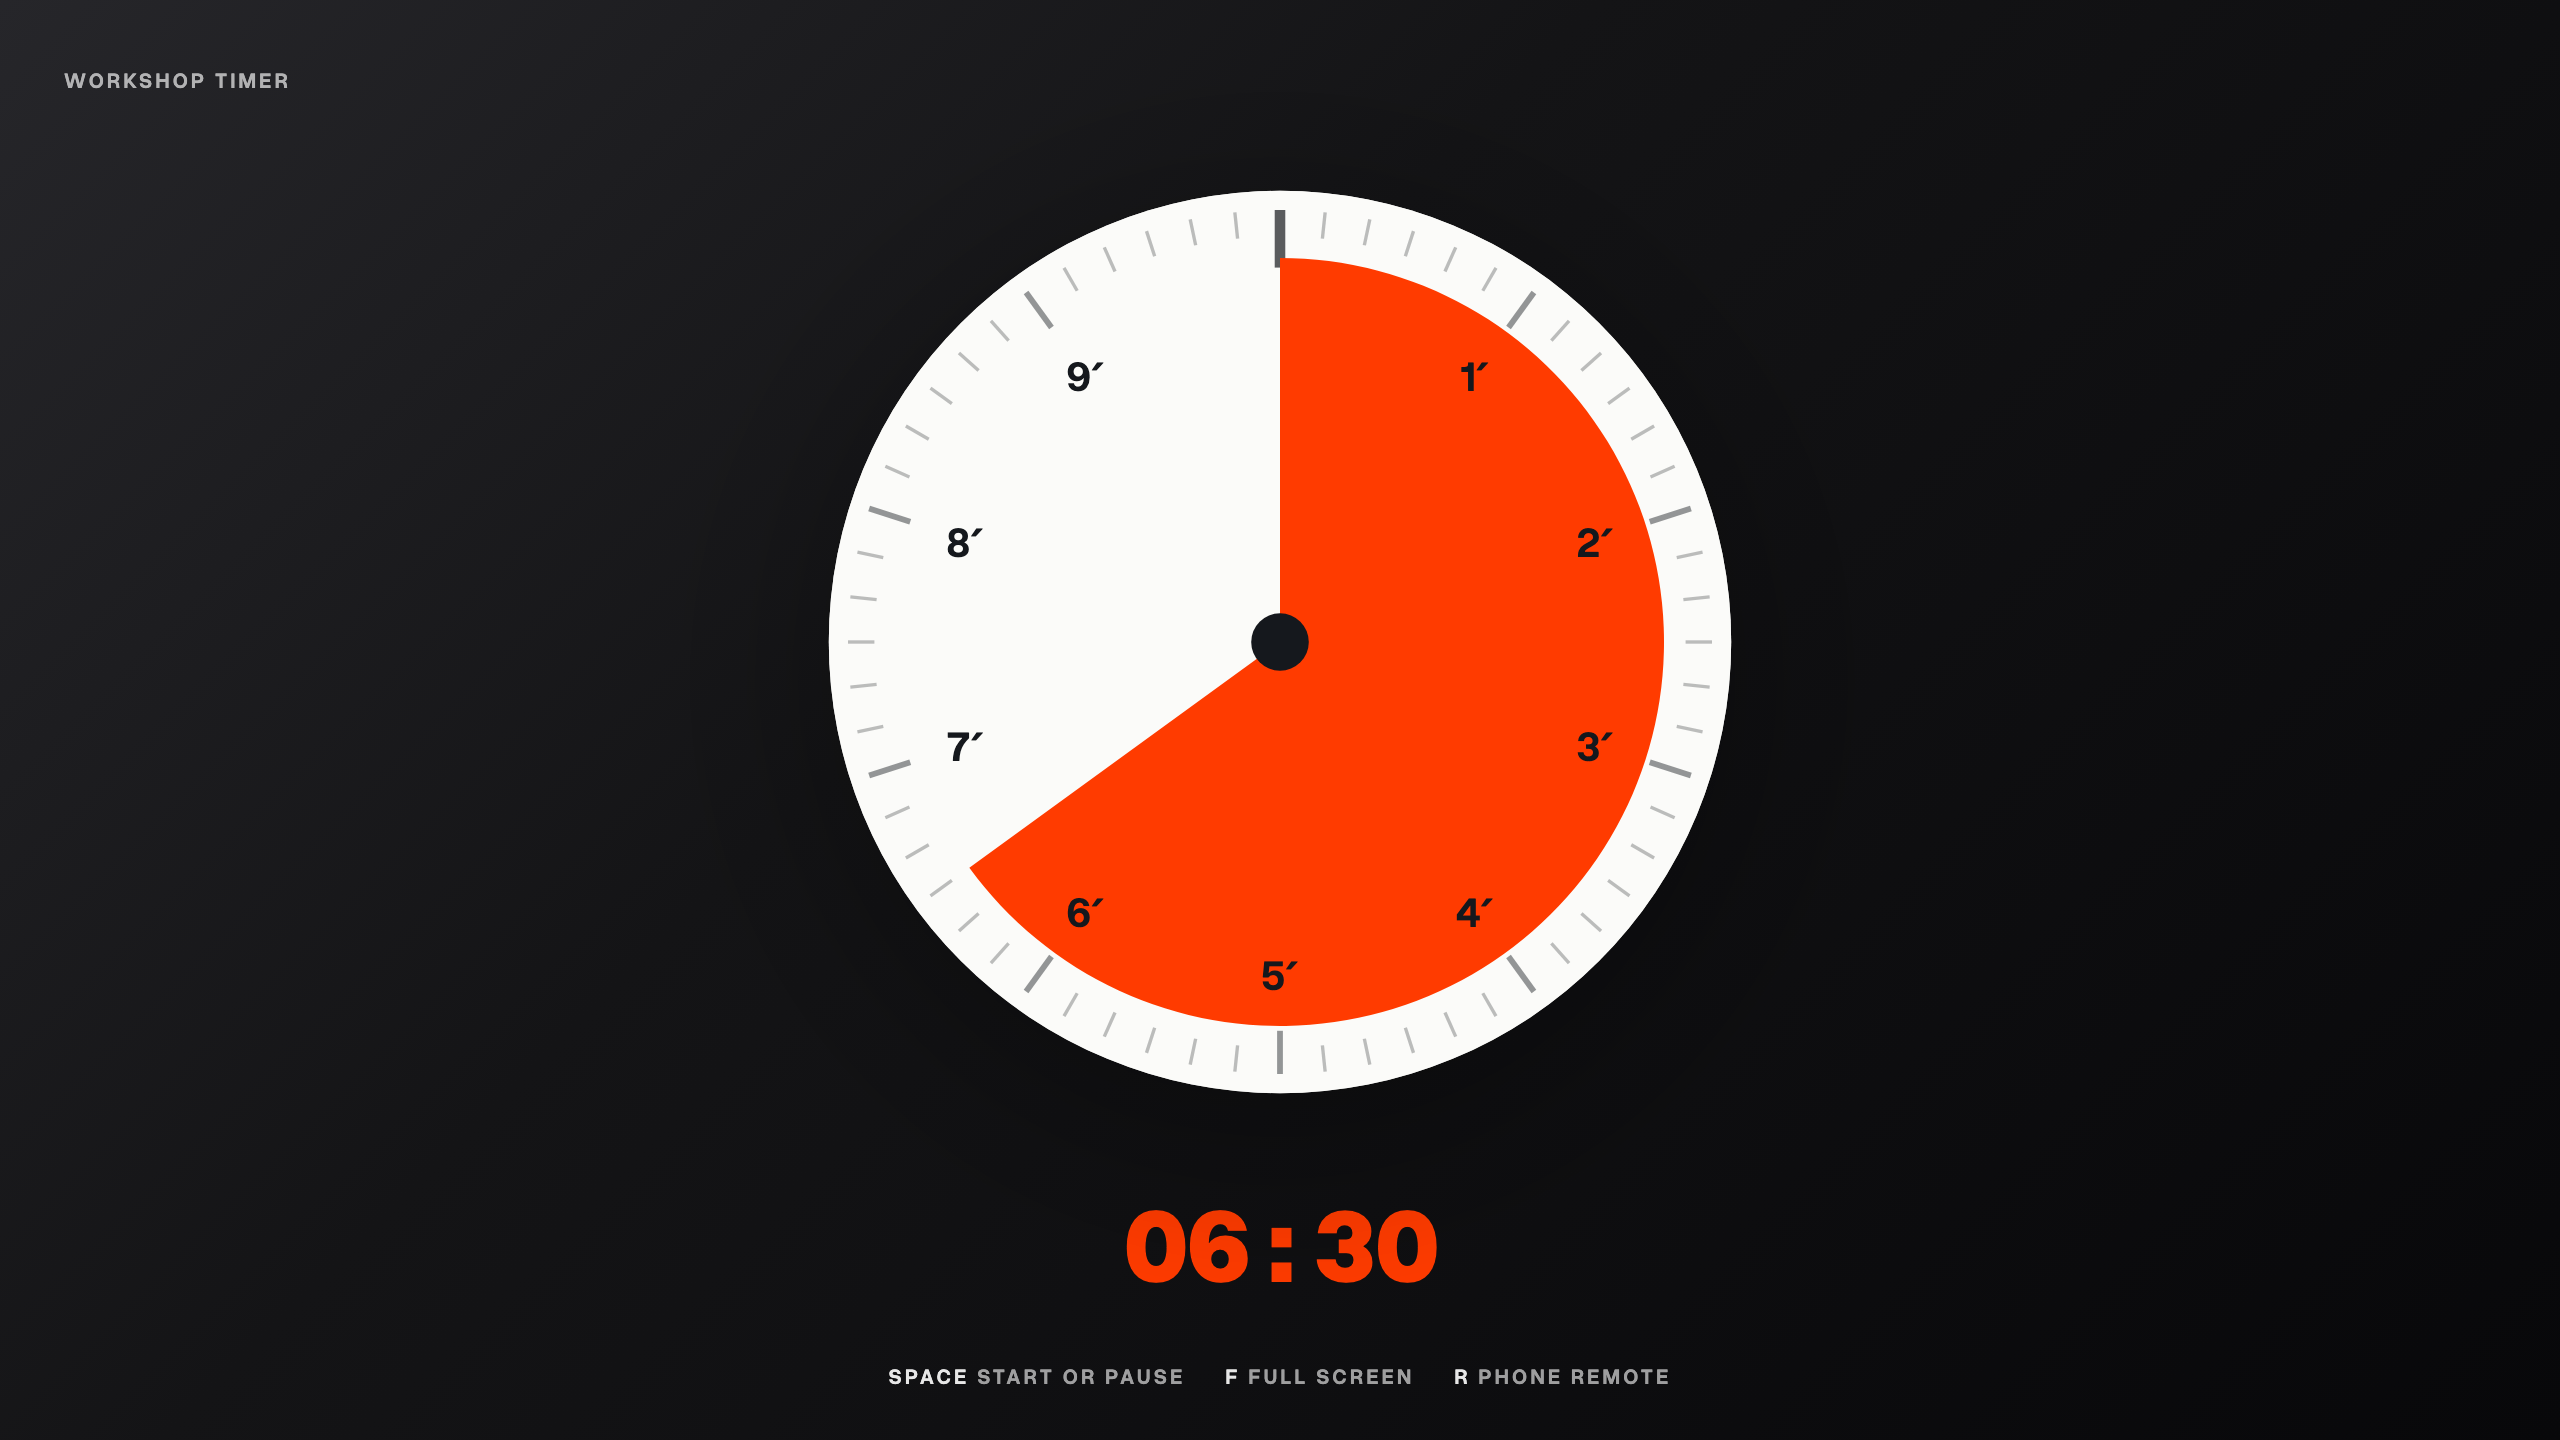
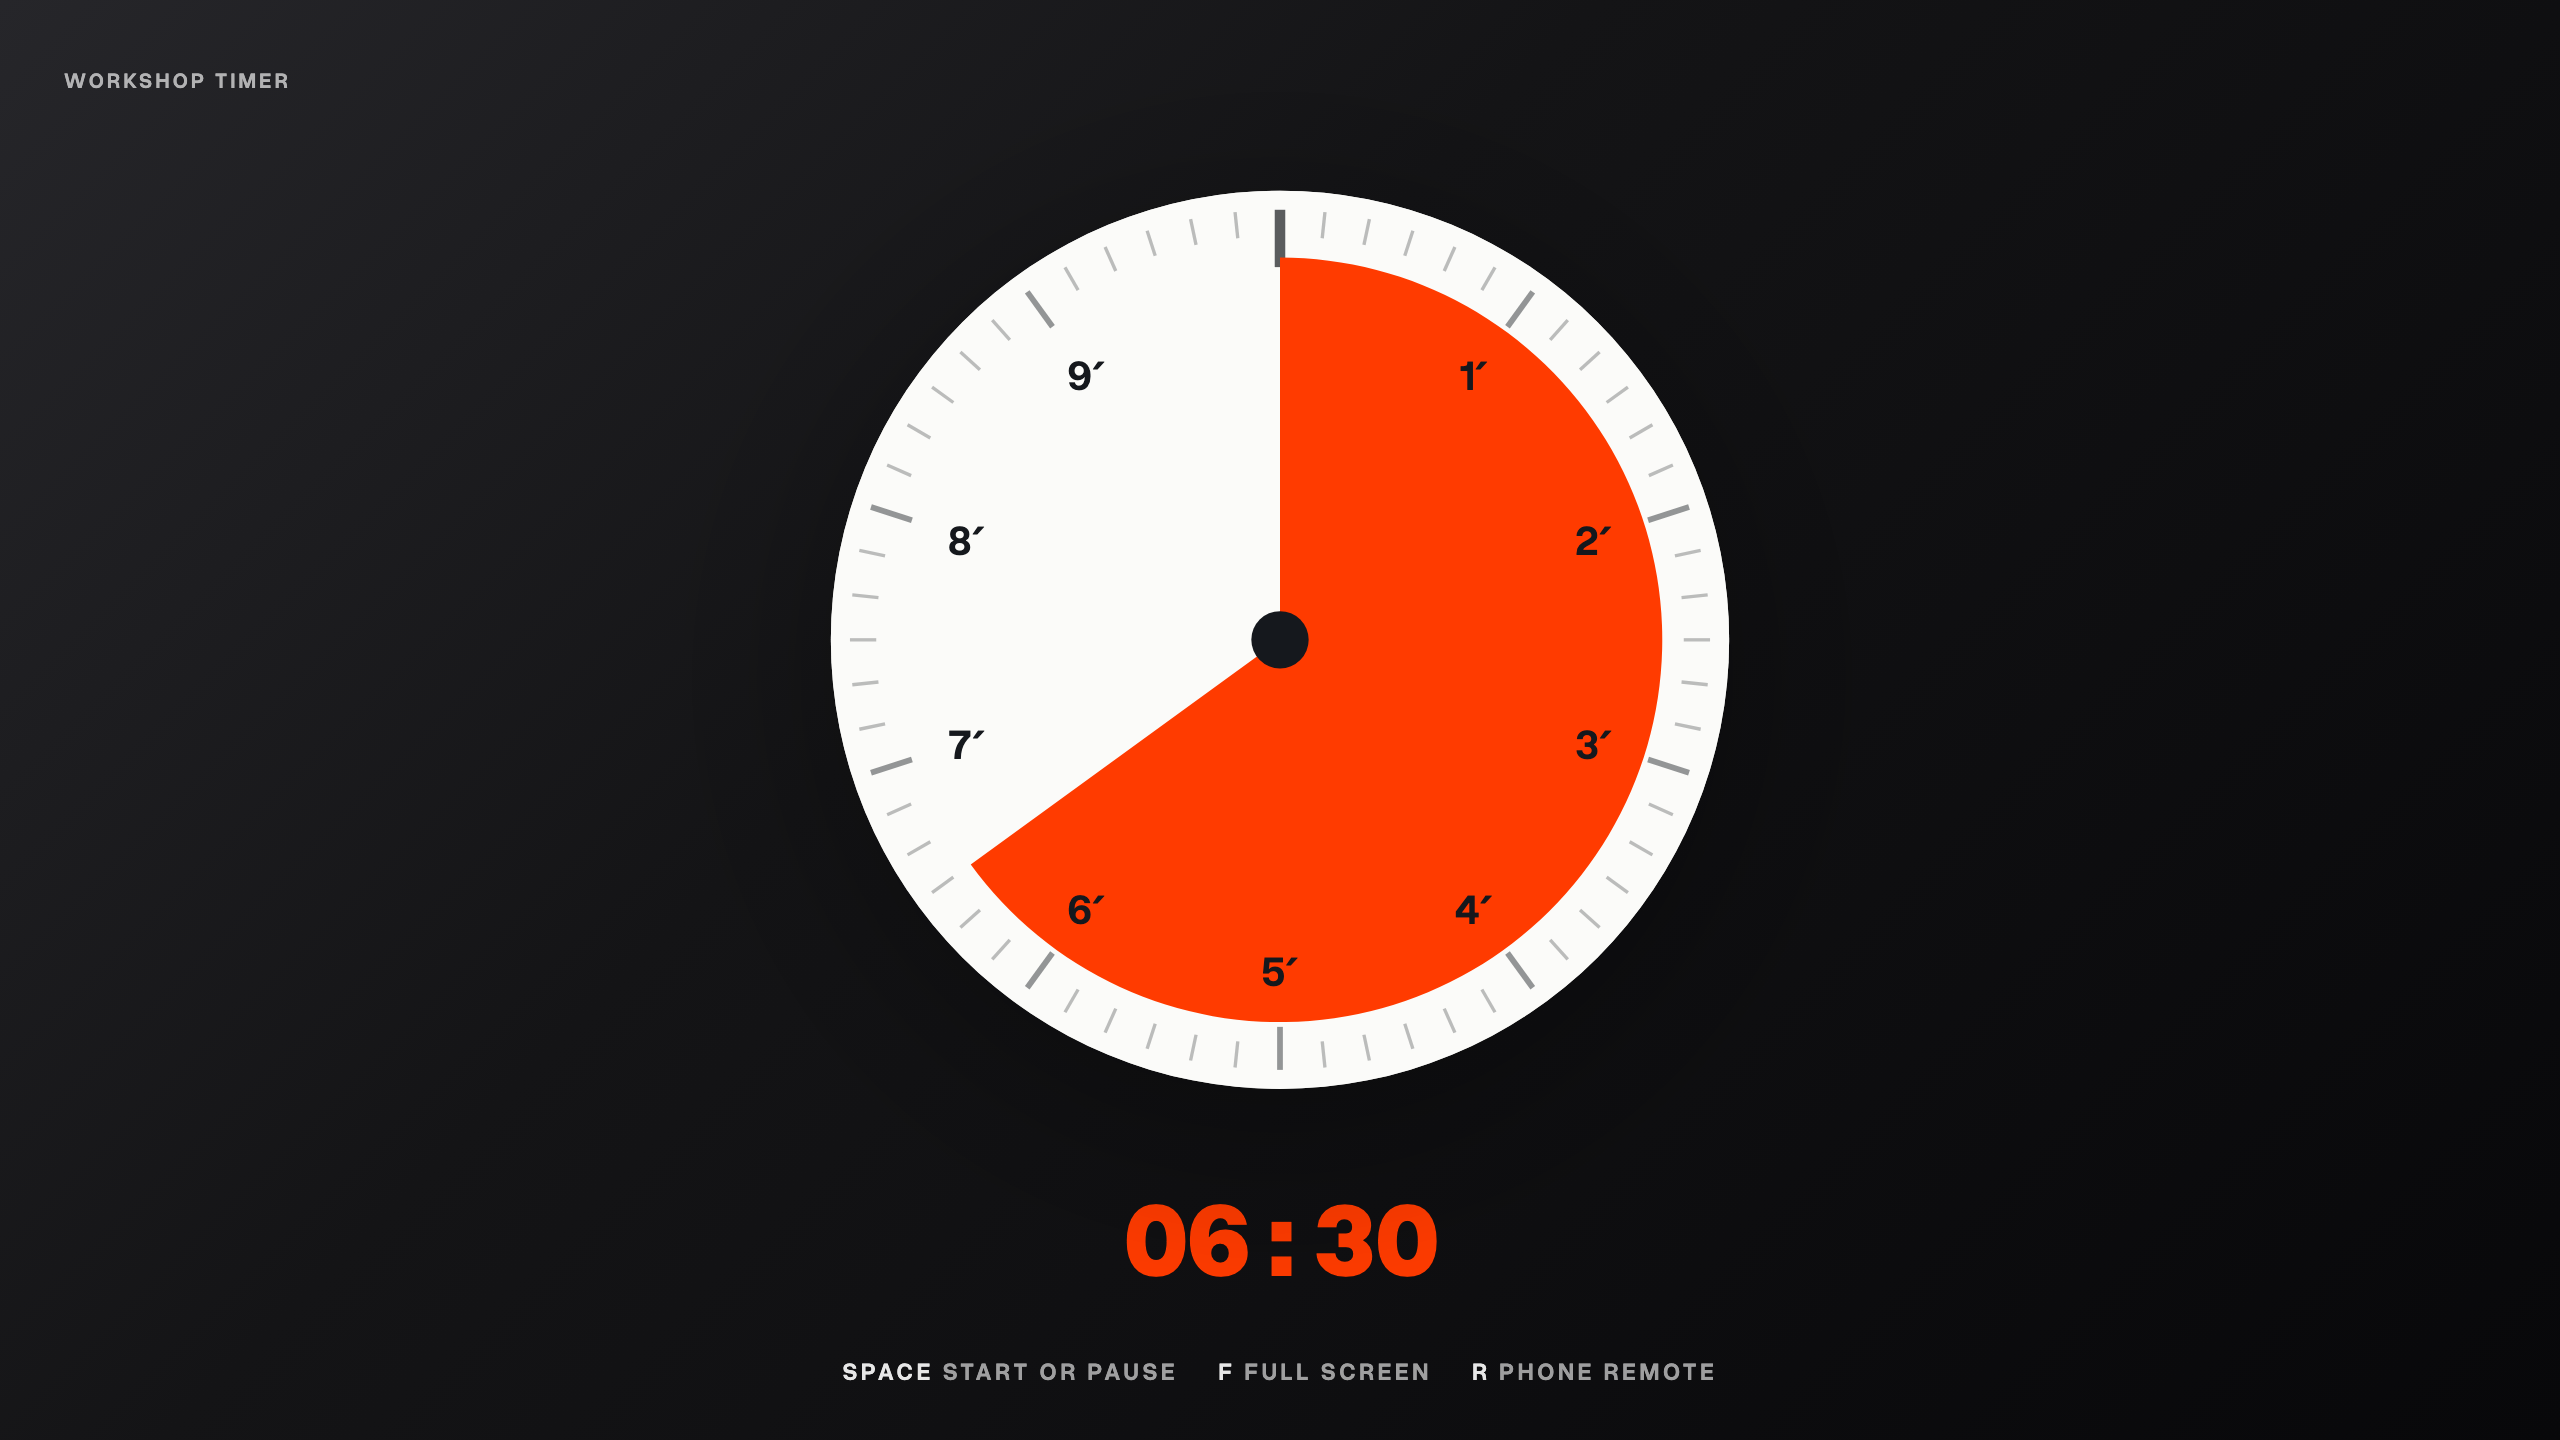
A bigger control bar, capped by width so tablets keep one row (#23)
--timer-chrome grows with height (2.2vh) but is capped by width (2vw), with the floor kept at 14px and the ceiling raised to 28px. About a third bigger on laptops and projectors; portrait tablets get their chips back on one row; phones unchanged. README pictures re-shot. Version 2.8.0.

diff --git a/src/app/timer.css b/src/app/timer.css
@@ -49,11 +49,18 @@
 
    One declaration fixes both halves: every control is measured in `em` from
    this, so the bar keeps a constant relationship to the dial from a laptop to a
-   wall. The FLOOR is today's 14px, so nothing on a screen under ~850px tall
-   changes at all, and the 44px minimum tap target still holds there (3.15em of
-   14px is 44.1px). */
+   wall. The FLOOR is 14px, where the 44px minimum tap target still holds (3.15em
+   of 14px is 44.1px), and it is what a phone gets.
+
+   It grows with HEIGHT but is CAPPED BY WIDTH, because width is what limits it:
+   the bar is about 46 times this value wide, and once that passes the viewport
+   (less the 32px of page padding) the length chips wrap to a second row. Height
+   alone gave every portrait tablet a scale its width could not carry, and
+   wrapped them all (v2.7.0, measured: 768x1024 at 16.9px, a 736px bar). 2vw
+   keeps the bar inside the width at any size, so the cap never wraps a row the
+   floor did not already. */
 :root {
-  --timer-chrome: clamp(0.875rem, 1.65vh, 1.375rem);
+  --timer-chrome: clamp(0.875rem, min(2.2vh, 2vw), 1.75rem);
 
   /* The caption step: 11px when the controls are 14px. */
   --timer-caption: calc(var(--timer-chrome) * 11 / 14);

diff --git a/src/lib/version.ts b/src/lib/version.ts
@@ -7,4 +7,4 @@
 // literal travels with the copy. Bump it with package.json, in the same commit
 // as the release's CHANGELOG entry; `npm run check:brands` fails if the three
 // disagree.
-export const TIMER_VERSION = "2.7.2"
+export const TIMER_VERSION = "2.8.0"

diff --git a/CHANGELOG.md b/CHANGELOG.md
@@ -8,6 +8,37 @@ one `git diff v1.0.0..v1.1.0`. Each entry has two parts:
   redo. See [`docs/DOWNSTREAM.md`](docs/DOWNSTREAM.md) for why each line is
   there.
 
+## v2.8.0 (2026-10-24)
+
+**This release changes the size of the controls on laptops, tablets and
+projectors.** Phones are unchanged.
+
+**In the room**
+
+- The control bar, its length chips and the key hints are bigger: about a third
+  wider on a laptop (644 to 729px at 1280x720) and on a projector (820 to
+  1094px at 1920x1080), with every tap target growing with them.
+- Portrait tablets get their length chips back on one row. Since v2.7.0 the bar
+  grew with screen height alone, so a tall narrow screen got a bar wider than
+  it could hold and the chips wrapped.
+
+**For hosts**
+
+- `--timer-chrome` in `timer.css` is now
+  `clamp(0.875rem, min(2.2vh, 2vw), 1.75rem)`: it grows with height, is capped
+  by width, and its ceiling is 28px. `--timer-caption` and `--timer-measure`
+  follow it. The v2.7.0 note said nothing under about 850px tall would change;
+  laptops at 720 to 800px tall now do.
+- Measured at nine viewports from 390x844 to 1920x1080: the chips are on one
+  row everywhere except a phone, which keeps its two rows exactly as before.
+- The README pictures are re-shot (the bar is bigger at the 1280x720 they are
+  taken at); `remote.png` is kept, since phones are unchanged.
+- Known, and older than this release: on screens 720 to 800px tall the pairing
+  receipt, pinned below the bar, reaches the digits while it is out. It already
+  overlapped by 4px at 1280x720 in v2.7.2; the bigger bar makes that 13px.
+- Files changed: `timer.css`. Nothing moved or renamed; no props, no
+  dependencies.
+
 ## v2.7.2 (2026-10-24)
 
 **In the room**
